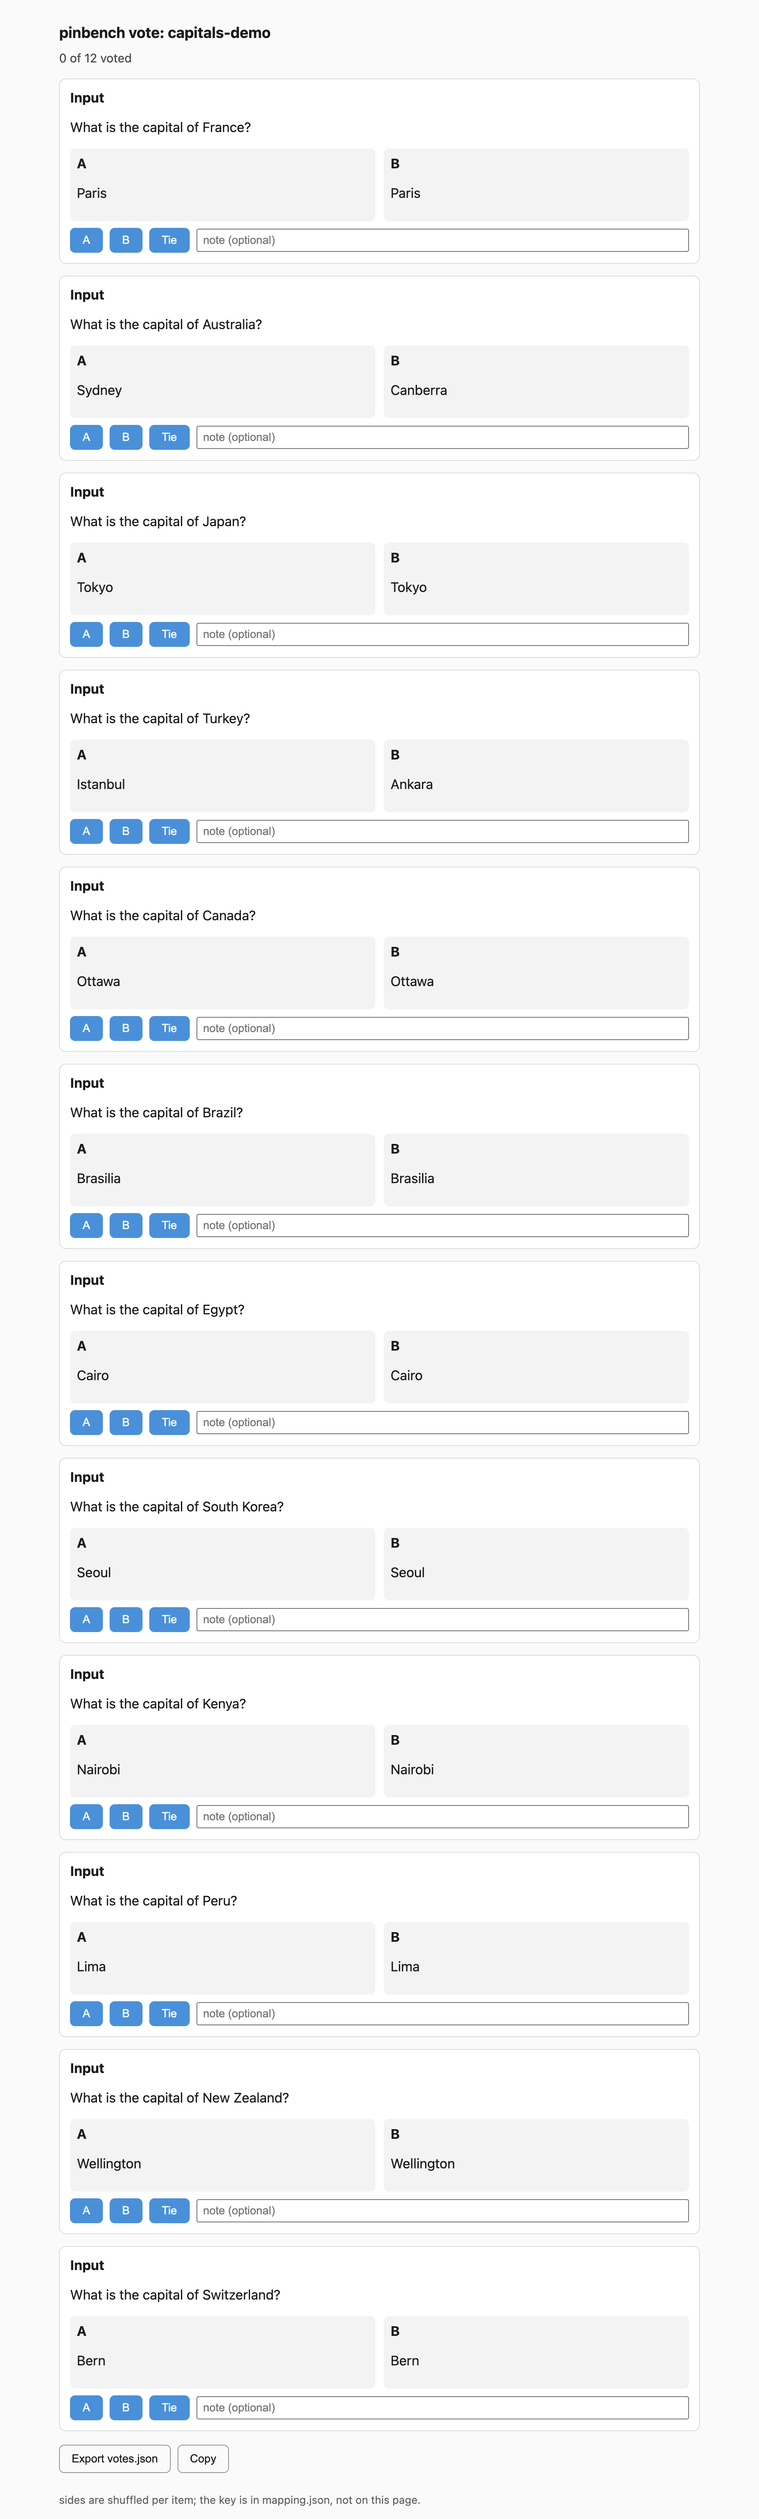
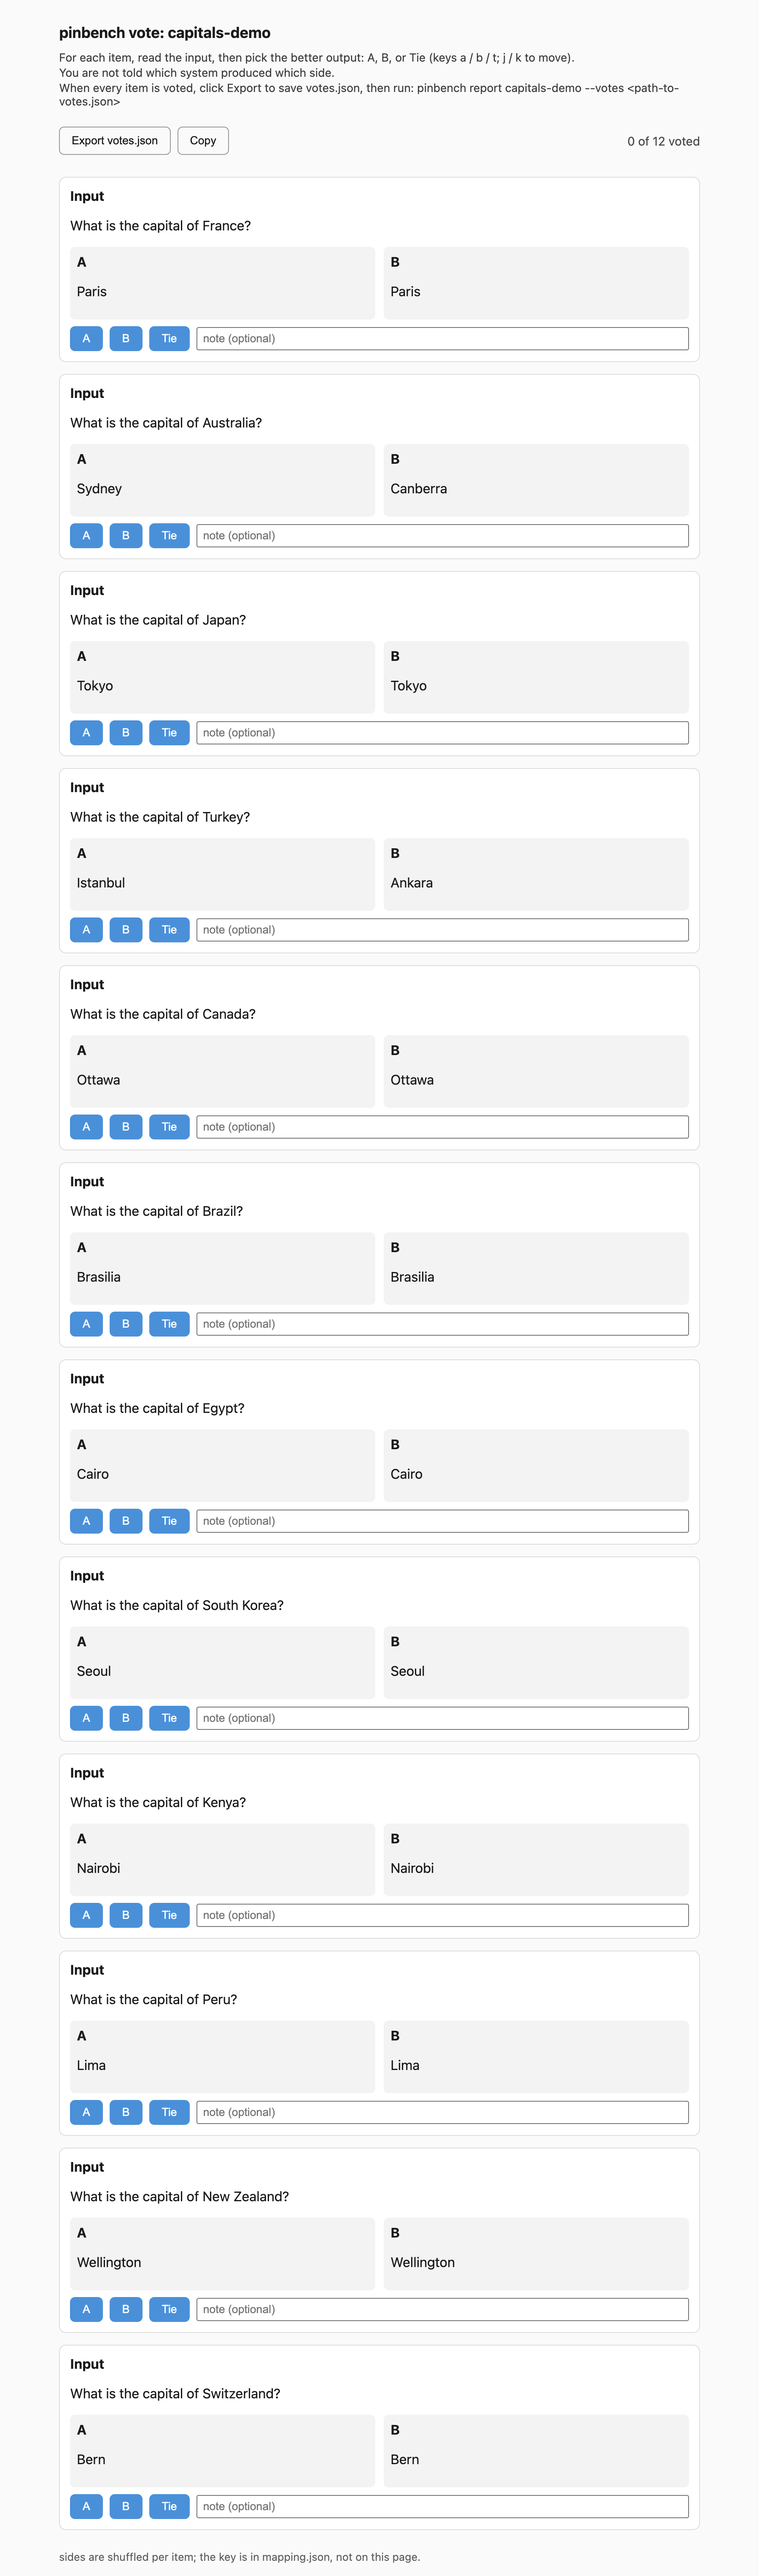
Add vote-page instructions block and mark truncated outputs on cards
Owen opened the vote page cold and didn't know what to do. Added a short, blind-safe
instructions block above the cards (how to vote and move with keys, that sides are
blind, how to export and run the report command), and moved the Export/Copy/progress
bar into a sticky #actions strip above #cards so it's never buried below every card.

Also renders a visible "truncated" badge on any card side whose output was cut off by
the model's output ceiling (pairs with the vote-level --allow-truncated refusal added
in the prior commit), so a cut-off answer is never silently judged as if complete.

Regenerated docs/vote-page.png offline via chrome-devtools against a local file:// page
(no network); test_blind.py gains coverage for the instructions block staying free of
model ids and incumbent/candidate wording, and for Export appearing before #cards.

diff --git a/pinbench/blind.py b/pinbench/blind.py
@@ -1,9 +1,13 @@
 """Build the blind A/B mapping and the self-contained vote.html page.
 
-Refuses to do: put a model id or the words incumbent/candidate inside a vote card; refuses
-to re-shuffle an existing mapping.json (idempotent on re-publish); refuses to render a
-blank card for an item missing output on either side (see `missing_output_item_arms`) --
-the CLI gates that refusal, this module renders the error text instead once it is waived.
+Refuses to do: put a model id or the words incumbent/candidate inside a vote card or the
+page's instructions block; refuses to re-shuffle an existing mapping.json (idempotent on
+re-publish); refuses to render a blank card for an item missing output on either side (see
+`missing_output_item_arms`), or to render a truncated output as if it were a complete
+answer (see `truncated_item_arms`) -- the CLI gates both refusals, this module renders the
+marked-up content once each is waived. The page opens with a short, blind-safe
+instructions block (how to vote, that sides are blind, how to export and report) above a
+sticky actions bar so Export is never buried below every card.
 """
 
 from __future__ import annotations
@@ -12,7 +16,13 @@ import json
 import secrets
 from pathlib import Path
 
+from . import scoring as scoring_mod
+
 FOOTER_SENTENCE = "sides are shuffled per item; the key is in mapping.json, not on this page."
+
+INSTRUCTIONS_LINE_1 = "For each item, read the input, then pick the better output: A, B, or Tie (keys a / b / t; j / k to move)."
+INSTRUCTIONS_LINE_2 = "You are not told which system produced which side."
+INSTRUCTIONS_LINE_3_TEMPLATE = "When every item is voted, click Export to save votes.json, then run: pinbench report {run_name} --votes <path-to-votes.json>"
 
 
 def missing_output_item_arms(run: dict) -> list:
@@ -27,6 +37,19 @@ def missing_output_item_arms(run: dict) -> list:
             if arm is None or arm.get("output") is None:
                 missing.append((item["id"], arm_name))
     return missing
+
+
+def truncated_item_arms(run: dict) -> list:
+    """[(item_id, arm_name), ...] for every item/arm whose stop/finish reason says the
+    output was cut off by the output ceiling (see scoring.is_truncated). Empty when nothing
+    was truncated.
+    """
+    truncated = []
+    for item in run["items"]:
+        for arm_name in ("incumbent", "candidate"):
+            if scoring_mod.is_truncated(item.get(arm_name)):
+                truncated.append((item["id"], arm_name))
+    return truncated
 
 
 def build_mapping(run: dict) -> dict:
@@ -54,7 +77,9 @@ def load_or_build_mapping(run: dict, mapping_path) -> dict:
 def _side_body_html(item, arm_name) -> tuple:
     """(html, is_error) for one side. A missing or errored arm renders its error text,
     marked as an error, never a blank card (the CLI already refused unless the caller
-    passed --allow-missing)."""
+    passed --allow-missing). A truncated-but-present output renders with a visible
+    "truncated" badge above it, never silently as if it were complete (the CLI already
+    refused unless the caller passed --allow-truncated)."""
     arm = item.get(arm_name)
     if arm is None:
         return '<p class="error-text">[no output: not attempted]</p>', True
@@ -62,7 +87,10 @@ def _side_body_html(item, arm_name) -> tuple:
     if output is None:
         text = arm.get("error") or "[no output]"
         return f'<p class="error-text">{_esc(text)}</p>', True
-    return f"<p>{_esc(output)}</p>", False
+    body = f"<p>{_esc(output)}</p>"
+    if scoring_mod.is_truncated(arm):
+        body = '<p class="truncated-badge">truncated</p>' + body
+    return body, False
 
 
 def _card_html(item, mapping_entry) -> str:
@@ -105,9 +133,13 @@ _VOTE_PAGE_CSS = """\
     .side { background: #26282f; }
     .side.error { border-color: #e66; }
     .error-text { color: #f88; }
+    .truncated-badge { color: #e0a654; }
+    #actions { background: #15161a; }
   }
   h1 { font-size: 1.1rem; }
-  #progress { margin: 8px 0 16px; font-size: 0.9rem; opacity: 0.8; }
+  #instructions { font-size: 0.85rem; opacity: 0.85; margin: 4px 0 12px; }
+  #instructions p { margin: 2px 0; }
+  #progress { font-size: 0.9rem; opacity: 0.8; margin-left: auto; }
   .card { border: 1px solid #ddd; border-radius: 8px; padding: 12px; margin-bottom: 14px;
           background: #fff; }
   .card:focus { outline: 2px solid #4a90d9; }
@@ -116,12 +148,15 @@ _VOTE_PAGE_CSS = """\
   .side { flex: 1 1 260px; background: #f3f3f3; border-radius: 6px; padding: 8px; }
   .side.error { border: 1px dashed #c33; }
   .error-text { color: #a33; font-style: italic; }
+  .truncated-badge { color: #a60; font-size: 0.75rem; font-weight: 600; margin: 0 0 4px;
+                      text-transform: uppercase; letter-spacing: 0.03em; }
   .controls { display: flex; gap: 8px; margin-top: 8px; align-items: center; flex-wrap: wrap; }
   .vote-btn { padding: 6px 14px; border-radius: 6px; border: 1px solid #999; cursor: pointer;
               background: transparent; color: inherit; }
   .vote-btn.selected { background: #4a90d9; color: #fff; border-color: #4a90d9; }
   .note { flex: 1 1 160px; padding: 4px 6px; }
-  #actions { margin: 16px 0; display: flex; gap: 8px; }
+  #actions { margin: 0 0 16px; padding: 10px 0; display: flex; gap: 8px; align-items: center;
+             position: sticky; top: 0; background: #fafafa; z-index: 1; }
   button.action { padding: 8px 14px; border-radius: 6px; border: 1px solid #999;
                   background: transparent; color: inherit; cursor: pointer; }
   footer { margin-top: 24px; font-size: 0.8rem; opacity: 0.7; }
@@ -245,6 +280,7 @@ def build_vote_html(run: dict, mapping: dict, run_name: str) -> str:
     cards_html = _cards_section(run, mapping)
     n = len(mapping)
     title = _esc(run_name)
+    report_cmd = _esc(INSTRUCTIONS_LINE_3_TEMPLATE.format(run_name=run_name))
 
     return f"""<!doctype html>
 <html lang="en">
@@ -257,13 +293,18 @@ def build_vote_html(run: dict, mapping: dict, run_name: str) -> str:
 </head>
 <body>
 <h1>pinbench vote: {title}</h1>
-<div id="progress">0 of {n} voted</div>
-<div id="cards">
-{cards_html}
+<div id="instructions">
+  <p>{_esc(INSTRUCTIONS_LINE_1)}</p>
+  <p>{_esc(INSTRUCTIONS_LINE_2)}</p>
+  <p>{report_cmd}</p>
 </div>
 <div id="actions">
   <button class="action" id="export">Export votes.json</button>
   <button class="action" id="copy">Copy</button>
+  <span id="progress">0 of {n} voted</span>
+</div>
+<div id="cards">
+{cards_html}
 </div>
 <footer>{FOOTER_SENTENCE}</footer>
 <script>

diff --git a/tests/test_blind.py b/tests/test_blind.py
@@ -52,6 +52,32 @@ def test_vote_html_contains_no_model_ids_or_side_words(tmp_path):
     assert blind.FOOTER_SENTENCE in html
 
 
+def test_vote_html_has_instructions_block_with_no_model_ids_or_side_words():
+    run = _run(1)
+    mapping = blind.build_mapping(run)
+    html = blind.build_vote_html(run, mapping, "r1")
+
+    assert 'id="instructions"' in html
+    assert "pick the better output" in html
+    assert "Export" in html
+    assert "pinbench report r1 --votes" in html
+
+    without_footer = html.replace(blind.FOOTER_SENTENCE, "")
+    for banned in ("claude-sonnet-4-5", "gpt-4o-mini"):
+        assert banned not in html
+    assert "incumbent" not in without_footer
+    assert "candidate" not in without_footer
+
+
+def test_export_button_appears_before_cards():
+    """Owen opened the page once and couldn't find Export; it must sit above #cards, in the
+    sticky #actions bar, not buried at the bottom after every card."""
+    run = _run(3)
+    mapping = blind.build_mapping(run)
+    html = blind.build_vote_html(run, mapping, "r1")
+    assert html.index('id="export"') < html.index('id="cards"')
+
+
 def test_vote_html_has_both_outputs_and_controls():
     run = _run(1)
     mapping = blind.build_mapping(run)
